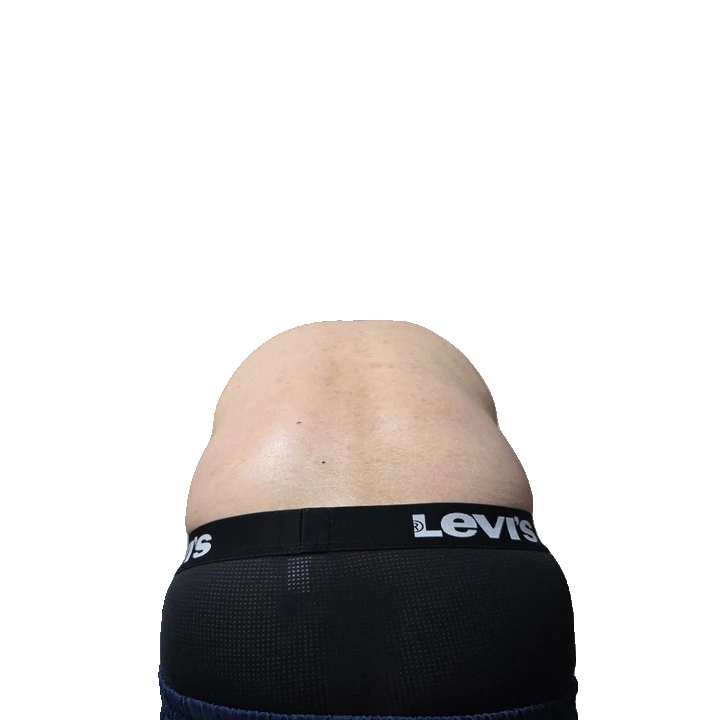
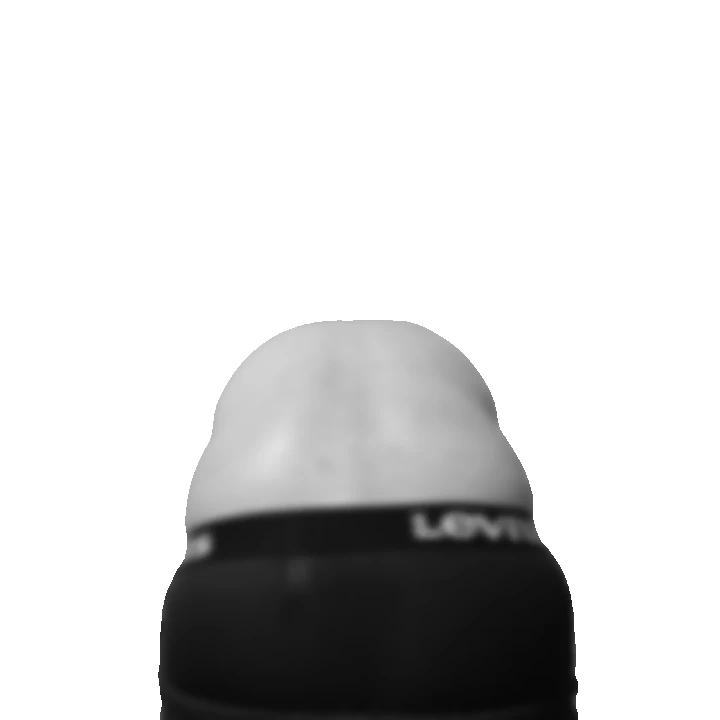
fix: 척추 균형 실루엣은 흑백·흐림 처리본으로, 가이드 사진의 점·로고 흐림 (privacy-guard)
Claude-Session: https://claude.ai/code/session_01PyFQzXUK3gVAPtCoid5yqG

diff --git a/docs/CHANGELOG.md b/docs/CHANGELOG.md
@@ -5,8 +5,9 @@
 
 ## v284 — (미출시)
 ### 변경
-- **척추 균형 촬영 화면의 배경 실루엣**을 원장님이 주신 새 사진(등 뒤에서 숙인 자세)으로 바꿨습니다. 배경을 자동으로 떼어 내고 사람 부분만 남긴 뒤, 기존 실루엣과 같은 방식(연한 명암 + 윤곽선)으로 보입니다. 서는 위치·크기는 사진 그대로입니다
-- **척추 균형 [측정가이드] 예시 사진**을 실제 측정 화면(격자·좌측/우측 높은 점·바닥 수평선·각도)으로 바꿨습니다. 회원 이름·센터 이름이 있던 머리글은 잘라냈습니다
+- **척추 균형 촬영 화면의 배경 실루엣**을 새 사진(등 뒤에서 숙인 자세)으로 바꿨습니다. 배경을 자동으로 떼어 내고 사람 부분만 남긴 뒤 **흑백·흐림 처리**해 저장했습니다(앱은 어차피 연한 명암 + 윤곽선으로만 보여 주므로 화면은 같고, 저장소에는 원본 색 사진이 남지 않습니다). 서는 위치·크기는 사진 그대로입니다
+- **척추 균형 [측정가이드] 예시 사진**을 실제 측정 화면(격자·좌측/우측 높은 점·바닥 수평선·각도)으로 바꿨습니다. 회원 이름·센터 이름이 있던 머리글은 잘라내고, 피부의 점과 옷 로고는 흐렸습니다
+- 두 사진은 앱 소유자 본인 사진이며 본인 요청으로 공개 가이드·실루엣에 씁니다(2026-10-16, 실명 기록 없음)
 ### 추가
 - 없음
 ### 수정
